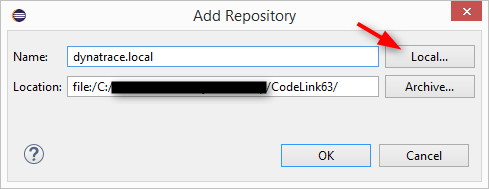
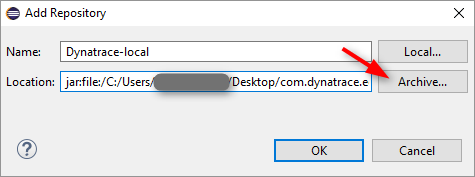
Eclipse marketplace info added (#8)
Eclipse marketplace info added
fixed installation instructions due to new release zip content format

diff --git a/README.md b/README.md
@@ -31,13 +31,16 @@ The Dynatrace Eclipse Integration Plugin enables you to:
 * Dynatrace Application Monitoring Version: 6.3, 6.5, 7.0
 * Eclipse Version: Juno, Kepler, Luna, Mars, Neon
 
-Find further information in the [Dynatrace community](https://community.dynatrace.com/community/display/DL/Dynatrace+Eclipse+Integration+Plugin).
+### Use Eclipse marketplace
 
-* Download the [latest plugin archive](https://github.com/Dynatrace/Dynatrace-Eclipse-Integration-Plugin/releases/
-* unzip the archive
+![marketplace entry](/img/conf/eclipse_marketplace-dynatrace_eclipse-integration-plugin.png)
+
+### Download from github
+
+* Download the [latest plugin .zip archive](https://github.com/Dynatrace/Dynatrace-Eclipse-Integration-Plugin/releases/)
 * in Eclipse, click on "Help" / "Install New Software..."
-* Add.., Local...
-* select the extracted CodeLink63 directory
+* Add.., Archive...
+* select the downloaded archive
 
 ![add site](/img/conf/add_site.png)
 
